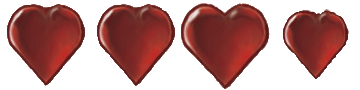
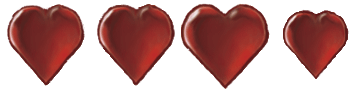
shadows, transparencies, etc

diff --git a/js/main.js b/js/main.js
@@ -4,6 +4,8 @@ var canvas;
 
 var inGame = false;
 
+var shadows = true;
+
 var player;//objeto del jugador
 var cosas;//array con objetos varios
 var gameObjects = new Container();//container con los objetos de la partida
@@ -56,7 +58,6 @@ function init(){
 	
 	contenedor = new Container();
 	stage.addChild (contenedor);
-	
 	
 	
 	points = 0;
@@ -248,11 +249,7 @@ function handleImageError(){
 }
 
 function tick(){
-	/*for(var i=0; i<cosas.length; i++){
-		var coso = cosas[i];
-		coso.x += coso.vx;
-		coso.y += coso.vy;
-	}*/
+
 	if(inGame){
 		setWidth(oxigenBar,-0.1);
 		updateParticles();
@@ -269,7 +266,7 @@ function tick(){
 }
 
 function sign(n){
-	return n?n>0?1:-1:0; //regex mofaca!!	
+	return n?n>0?1:-1:0;	
 }
 
 function handleKeyDown(e){//lo que pasa cuando el jugador toca una tecla

diff --git a/js/collision.js b/js/collision.js
@@ -62,12 +62,15 @@ function direction(x1,y1,x2,y2){
 
 function Particle(x,y,color1,color2,dir){
 	var shape = new Shape();
-	shape.graphics.beginFill(color1).drawCircle(0,0,4).beginFill(color2).drawCircle(0,0,3);
+	shape.graphics.beginFill(color1).drawCircle(0,0,6).beginFill(color2).drawCircle(0,0,3);
+	//shape.graphics.beginFill(color1).rect(-6,-6,12,12).beginFill(color2).rect(-3,-3,6,6);
 	shape.x = x;
 	shape.y = y;
 	shape.v = 20;
 	shape.vx = dir[0];
 	shape.vy = dir[1];
+	shape.snapToPixel = true;
+	shape.cache(-6,-6,12,12);
 	stage.addChild(shape);
 	particles.push(shape);
 	return shape;
@@ -79,6 +82,7 @@ function updateParticles(){
 		p.x += p.vx;
 		p.y += p.vy;
 		p.v -= 1;
+		p.v<10?p.alpha-=0.1:true;
 		if(p.v<=0){
 			Destroy(i,particles);
 		}

diff --git a/js/shot.js b/js/shot.js
@@ -135,7 +135,7 @@ function updateShot(){
 		if (collCircle(temp_rojo, bichos)) {
 			for(var j=0; j<3; j++){
 				var g = temp_rojo;
-				Particle(g.x,g.y,"rgba(100,10,30,0.7)","rgba(240,50,70,1)",[Math.random()*8-4,Math.random()*8-4])
+				Particle(g.x,g.y,"rgba(180,40,60,0.5)","rgba(240,50,70,1)",[Math.random()*8-4,Math.random()*8-4])
 			}	
 			DestroyShot(i, "rojo");
 		}
@@ -170,7 +170,7 @@ function updateShot(){
 		if (b != false) {	
 			for(var j=0; j<5; j++){
 				var g = temp_blanco;
-				Particle(g.x,g.y,"rgba(180,200,220,0.7)","rgba(180,200,220,1)",[Math.random()*8-4,Math.random()*8-4])
+				Particle(g.x,g.y,"rgba(180,200,220,0.3)","rgba(200,240,250,1)",[Math.random()*8-4,Math.random()*8-4])
 			}
 			console.log(b);
 			b.hp-=1;

diff --git a/js/element.js b/js/element.js
@@ -1,6 +1,7 @@
 function Bug(x,y,vx,vy,tipo){
 	var shape = new BitmapAnimation(spriteBichos);
-
+	if(shadows)shape.shadow = new Shadow("#243",0,5,2);
+	
 	switch(tipo){
 		case 1: 
 			shape.damage = 1; 
@@ -44,6 +45,7 @@ function Oxygen(x,y,vx,vy){
 	shape.regY = 5;
 	shape.x = x;
 	shape.y = y;
+	shape.alpha = 0.7;
 	shape.kill = false;
 	shape.r = 5;
 	shape.vx = vx;
@@ -94,7 +96,7 @@ function updateBugs(){
 		bg.y += bg.vy;
 		if(bg.hp<=0){
 			for(var j=0; j<8; j++){
-				Particle(bg.x,bg.y,"rgba(100,220,150,0.7)","rgba(40,220,70,1)",[Math.random()*8-4,Math.random()*8-4])
+				Particle(bg.x,bg.y,"rgba(100,220,150,0.3)","rgba(80,150,50,1)",[Math.random()*8-4,Math.random()*8-4])
 			}
 			Destroy(i,bichos);
 			return false;

diff --git a/js/heart.js b/js/heart.js
@@ -1,5 +1,6 @@
 function Heart(){
 	var heart = new BitmapAnimation(spriteCorazon);
+	if(shadows)heart.shadow = new Shadow("#422",0,5,4);
 	heart.gotoAndPlay("beat");//default animation
 	heart.currentAnim = "beat";//default current animation
 	heart.r = 45;

diff --git a/js/player.js b/js/player.js
@@ -1,6 +1,7 @@
 
 function Player(x, y){
 	var anim = new BitmapAnimation(spriteSheet);
+	if(shadows)anim.shadow = new Shadow("#233",0,5,4);
 	anim.gotoAndPlay("move");//default animation
 	currentAnim = "move";//default current animation
 	anim.x = x;
